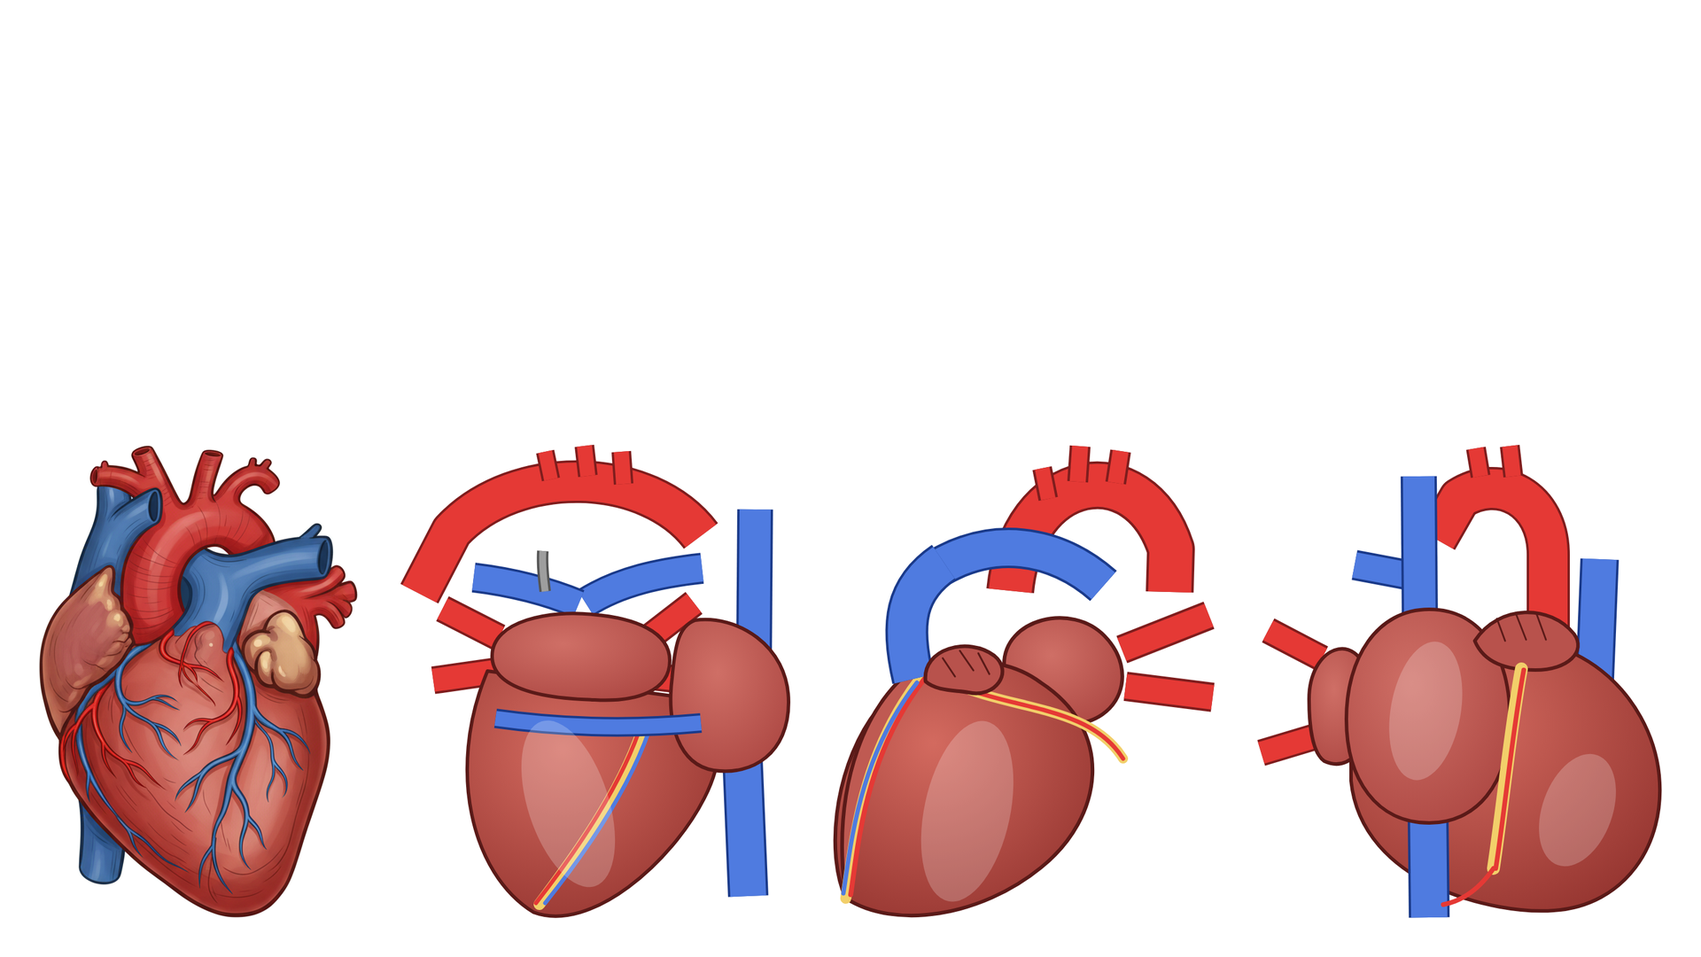
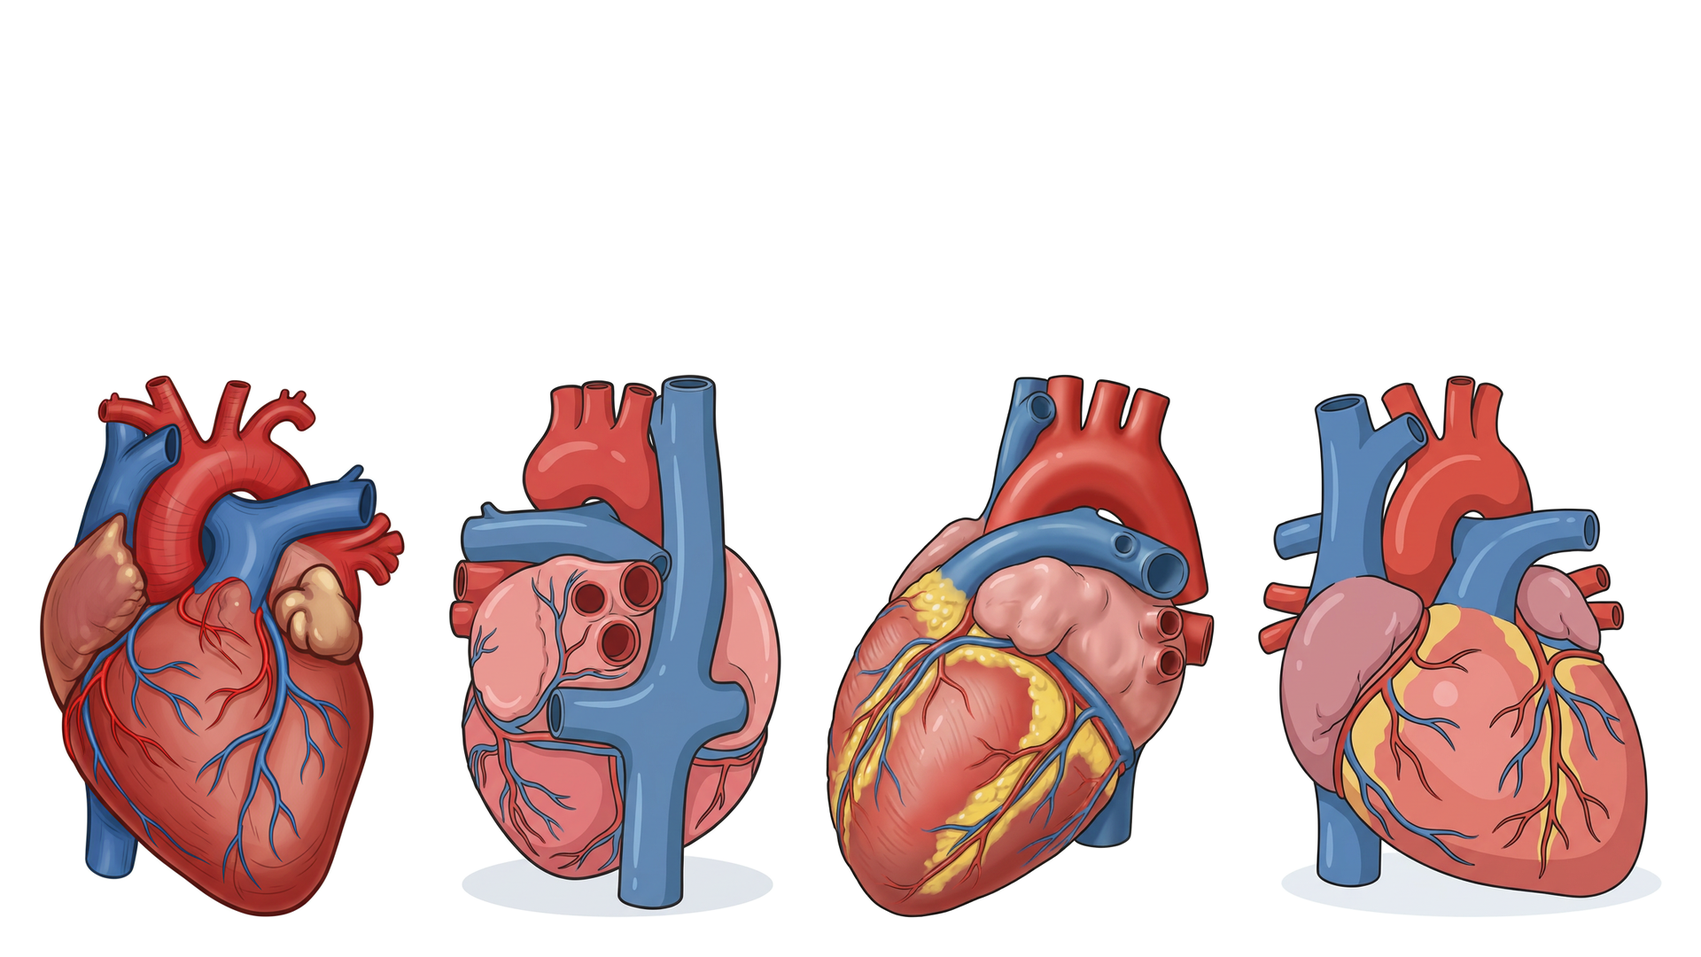
Render the last stuck views with Gemini from a vector/photo composition guide
New tool image-prompts/_src/gemini-ref.mjs: a composition guide (our vector
drawing, or an approved picture of the target view) fixes the camera angle and
part counts, another picture supplies the look. Candidates only; each one is
reviewed by hand (legs/limbs/vessels counted) before it replaces a slot.

- kecoak p03 (rear), lebah p03 (rear), nyamuk-aedes p03 (underside),
  jantung p04 (left side): realistic renders replace the flat vector fallbacks.
- jantung p08-p10 (illustration): redrawn from the approved realistic views of
  the same heart, in the illustration style of another organ.
- ginjal-penampang p01: realistic teaching-model section from the approved
  illustration; replaces the crude vector.
- Old pictures kept as *.lamaN.png with their verdicts.
- Status: 2092/2092 slots filled, 2092 ok, 0 revisi, 0 salah.

Organ pictures still need science-teacher sign-off.

diff --git a/osn-app/image-results/_galeri.html b/osn-app/image-results/_galeri.html
@@ -883,7 +883,7 @@ figcaption span{color:#fff;border-radius:99px;padding:1px 8px;font-size:12px}sma
 <figcaption><b>p02-ilustrasi-depan</b> <span style="background:#16a34a">lolos</span><small>Lolos: email, dentin, rongga pulpa dengan pembuluh darah dan saraf, gusi, sementum, tulang rahang.</small></figcaption></figure><figure><a href="ipa/02-tubuh-manusia/gigi-penampang/p03-penampang-belah.png" target="_blank"><img loading="lazy" src="ipa/02-tubuh-manusia/gigi-penampang/p03-penampang-belah.png" alt="gigi-penampang p03-penampang-belah"></a>
 <figcaption><b>p03-penampang-belah</b> <span style="background:#16a34a">lolos</span><small>Lolos: email, dentin, rongga pulpa dengan pembuluh darah dan saraf, gusi, sementum, tulang rahang.</small></figcaption></figure><figure><a href="ipa/02-tubuh-manusia/gigi-penampang/p04-penampang-transparan.png" target="_blank"><img loading="lazy" src="ipa/02-tubuh-manusia/gigi-penampang/p04-penampang-transparan.png" alt="gigi-penampang p04-penampang-transparan"></a>
 <figcaption><b>p04-penampang-transparan</b> <span style="background:#16a34a">lolos</span><small>Lolos: email, dentin, rongga pulpa dengan pembuluh darah dan saraf, gusi, sementum, tulang rahang.</small></figcaption></figure></div></section><section><h2>ginjal-penampang <em>ipa/02-tubuh-manusia/ginjal-penampang</em> <span class="cnt">4/4 terisi</span></h2><div class="grid"><figure><a href="ipa/02-tubuh-manusia/ginjal-penampang/p01-realistis-depan.png" target="_blank"><img loading="lazy" src="ipa/02-tubuh-manusia/ginjal-penampang/p01-realistis-depan.png" alt="ginjal-penampang p01-realistis-depan"></a>
-<figcaption><b>p01-realistis-depan</b> <span style="background:#16a34a">lolos</span><small>Gambar VEKTOR (SVG→PNG via image-prompts/_src/vektor-ipa.mjs), bukan Gemini: geometri dihitung kode (versi Gemini gagal berulang: teks salah eja / objek salah). Penampang membujur ginjal: kapsul ginjal (garis tipis mengkilap), korteks (merah-cokelat, pita luar) dan kolumna ginjal di antara piramida; 8 piramida medula (merah tua bergaris) dengan garis putus-putus batas korteks–medula; kaliks minor (cangkir kuning) bergabung ke kaliks mayor lalu pelvis ginjal (kuning), ureter keluar ke bawah lewat hilum; arteri ginjal (merah) dan vena ginjal (biru) masuk di hilum. Tidak ada struktur tambahan (kelenjar adrenal/lemak) seperti pada versi Gemini. Tanpa teks. Diperiksa visual. Gambar organ perlu ditinjau guru IPA sebelum rilis.</small></figcaption></figure><figure><a href="ipa/02-tubuh-manusia/ginjal-penampang/p02-ilustrasi-depan.png" target="_blank"><img loading="lazy" src="ipa/02-tubuh-manusia/ginjal-penampang/p02-ilustrasi-depan.png" alt="ginjal-penampang p02-ilustrasi-depan"></a>
+<figcaption><b>p01-realistis-depan</b> <span style="background:#16a34a">lolos</span><small>Model anatomi realistis ginjal dibelah memanjang (dirender Gemini lewat gemini-ref.mjs: struktur dan tata letak dari ilustrasi p02 yang sudah lolos, tampilan model dari foto model jantung p02 jantung; menggantikan gambar vektor datar yang jelek). Terlihat kapsul tipis, korteks merah-cokelat, piramida medula bergaris, kolumna ginjal, kaliks dan pelvis kuning pucat, ureter turun ke bawah, arteri ginjal merah dan vena ginjal biru masuk di hilum (tepi cekung), kelenjar adrenal di atas. Latar putih polos, tanpa teks. Perlu paraf guru IPA (organ).</small></figcaption></figure><figure><a href="ipa/02-tubuh-manusia/ginjal-penampang/p02-ilustrasi-depan.png" target="_blank"><img loading="lazy" src="ipa/02-tubuh-manusia/ginjal-penampang/p02-ilustrasi-depan.png" alt="ginjal-penampang p02-ilustrasi-depan"></a>
 <figcaption><b>p02-ilustrasi-depan</b> <span style="background:#16a34a">lolos</span><small>Lolos (perlu paraf guru IPA): korteks, piramid medula, pelvis, ureter, arteri merah, vena biru, kelenjar adrenal.</small></figcaption></figure><figure><a href="ipa/02-tubuh-manusia/ginjal-penampang/p03-penampang-belah.png" target="_blank"><img loading="lazy" src="ipa/02-tubuh-manusia/ginjal-penampang/p03-penampang-belah.png" alt="ginjal-penampang p03-penampang-belah"></a>
 <figcaption><b>p03-penampang-belah</b> <span style="background:#16a34a">lolos</span><small>Lolos (perlu paraf guru IPA): korteks, piramid medula, pelvis, ureter, arteri merah, vena biru, kelenjar adrenal.</small></figcaption></figure><figure><a href="ipa/02-tubuh-manusia/ginjal-penampang/p04-penampang-transparan.png" target="_blank"><img loading="lazy" src="ipa/02-tubuh-manusia/ginjal-penampang/p04-penampang-transparan.png" alt="ginjal-penampang p04-penampang-transparan"></a>
 <figcaption><b>p04-penampang-transparan</b> <span style="background:#16a34a">lolos</span><small>Lolos (perlu paraf guru IPA): korteks, piramid medula, pelvis, ureter, arteri merah, vena biru, kelenjar adrenal.</small></figcaption></figure></div></section><section><h2>glukometer <em>ipa/02-tubuh-manusia/glukometer</em> <span class="cnt">2/2 terisi</span></h2><div class="grid"><figure><a href="ipa/02-tubuh-manusia/glukometer/p01-realistis-depan.png" target="_blank"><img loading="lazy" src="ipa/02-tubuh-manusia/glukometer/p01-realistis-depan.png" alt="glukometer p01-realistis-depan"></a>
@@ -922,9 +922,9 @@ figcaption span{color:#fff;border-radius:99px;padding:1px 8px;font-size:12px}sma
 <figcaption><b>p05-realistis-kanan</b> <span style="background:#16a34a">lolos</span><small>Lolos (perlu paraf guru IPA): vena kava di sisi kiri gambar, apeks ke kanan bawah gambar, aorta melengkung, arteri koroner; tampak belakang dengan vena pulmonalis.</small></figcaption></figure><figure><a href="ipa/02-tubuh-manusia/jantung/p06-ilustrasi-turnaround.png" target="_blank"><img loading="lazy" src="ipa/02-tubuh-manusia/jantung/p06-ilustrasi-turnaround.png" alt="jantung p06-ilustrasi-turnaround"></a>
 <figcaption><b>p06-ilustrasi-turnaround</b> <span style="background:#16a34a">lolos</span><small>Disusun otomatis dari p07, p08, p09, p10 (depan, belakang, kiri, kanan) yang sudah lolos review.</small></figcaption></figure><figure><a href="ipa/02-tubuh-manusia/jantung/p07-ilustrasi-depan.png" target="_blank"><img loading="lazy" src="ipa/02-tubuh-manusia/jantung/p07-ilustrasi-depan.png" alt="jantung p07-ilustrasi-depan"></a>
 <figcaption><b>p07-ilustrasi-depan</b> <span style="background:#16a34a">lolos</span><small>Gaya ilustrasi buku pelajaran, tampak depan, utuh, tanpa teks. Anatomi sesuai tingkat SD: lengkung aorta 3 cabang, vena cava superior &amp; inferior (biru) di sisi kanan tubuh (kiri gambar), apeks condong ke kiri tubuh (kanan gambar), arteri pulmonalis biru, pembuluh koroner di permukaan. Model: gemini-2.5-flash-image via Vertex AI. Tetap perlu cek guru IPA sebelum rilis.</small></figcaption></figure><figure><a href="ipa/02-tubuh-manusia/jantung/p08-ilustrasi-belakang.png" target="_blank"><img loading="lazy" src="ipa/02-tubuh-manusia/jantung/p08-ilustrasi-belakang.png" alt="jantung p08-ilustrasi-belakang"></a>
-<figcaption><b>p08-ilustrasi-belakang</b> <span style="background:#16a34a">lolos</span><small>Gambar VEKTOR skematik (SVG→PNG via image-prompts/_src/vektor-ipa.mjs), bukan Gemini (5 percobaan Gemini, termasuk model pro, selalu kembali ke tampak depan). Konvensi sama dengan p07 depan: arteri merah, vena kava &amp; arteri pulmonalis biru, vena pulmonalis merah, lemak/alur kuning, tanpa teks. Tampak BELAKANG (posterior): apeks ke bawah-KIRI gambar (= kiri tubuh); atrium kiri di atas dengan 4 vena pulmonalis (2 kiri, 2 kanan); atrium kanan di sisi kanan gambar dengan vena kava superior (atas) dan inferior (bawah); sinus koronarius di alur atrioventrikular masuk ke atrium kanan; alur interventrikular posterior dengan arteri &amp; vena; lengkung aorta dengan 3 cabang, arteri pulmonalis kanan/kiri, ligamentum arteriosum di atasnya. Skema buku pelajaran SD, bukan model anatomi detail; WAJIB paraf guru IPA sebelum rilis (organ).</small></figcaption></figure><figure><a href="ipa/02-tubuh-manusia/jantung/p09-ilustrasi-kiri.png" target="_blank"><img loading="lazy" src="ipa/02-tubuh-manusia/jantung/p09-ilustrasi-kiri.png" alt="jantung p09-ilustrasi-kiri"></a>
-<figcaption><b>p09-ilustrasi-kiri</b> <span style="background:#16a34a">lolos</span><small>Gambar VEKTOR skematik (SVG→PNG via image-prompts/_src/vektor-ipa.mjs), bukan Gemini (5 percobaan Gemini, termasuk model pro, selalu kembali ke tampak depan). Konvensi sama dengan p07 depan: arteri merah, vena kava &amp; arteri pulmonalis biru, vena pulmonalis merah, lemak/alur kuning, tanpa teks. Tampak SAMPING KIRI (depan jantung ke kiri gambar): ventrikel kiri dominan, apeks ke kiri-bawah, sedikit ventrikel kanan di tepi depan, arteri koroner kiri descendens anterior + vena jantung besar di alur depan, arteri sirkumfleks di alur AV, aurikel kiri di bawah batang pulmonalis, atrium kiri di belakang dengan 2 vena pulmonalis kiri, lengkung aorta 3 cabang. Skema buku pelajaran SD, bukan model anatomi detail; WAJIB paraf guru IPA sebelum rilis (organ).</small></figcaption></figure><figure><a href="ipa/02-tubuh-manusia/jantung/p10-ilustrasi-kanan.png" target="_blank"><img loading="lazy" src="ipa/02-tubuh-manusia/jantung/p10-ilustrasi-kanan.png" alt="jantung p10-ilustrasi-kanan"></a>
-<figcaption><b>p10-ilustrasi-kanan</b> <span style="background:#16a34a">lolos</span><small>Gambar VEKTOR skematik (SVG→PNG via image-prompts/_src/vektor-ipa.mjs), bukan Gemini (5 percobaan Gemini, termasuk model pro, selalu kembali ke tampak depan). Konvensi sama dengan p07 depan: arteri merah, vena kava &amp; arteri pulmonalis biru, vena pulmonalis merah, lemak/alur kuning, tanpa teks. Tampak SAMPING KANAN (depan jantung ke kanan gambar): atrium kanan besar dengan aurikel kanan di atas pangkal aorta, vena kava superior masuk dari atas dan inferior dari bawah, ventrikel kanan di depan-bawah, batang pulmonalis di depan, arteri koroner kanan di alur AV kanan, aorta asenden melengkung ke belakang, 2 vena pulmonalis kanan di belakang atrium. Skema buku pelajaran SD, bukan model anatomi detail; WAJIB paraf guru IPA sebelum rilis (organ).</small></figcaption></figure><figure><a href="ipa/02-tubuh-manusia/jantung/p11-penampang-belah.png" target="_blank"><img loading="lazy" src="ipa/02-tubuh-manusia/jantung/p11-penampang-belah.png" alt="jantung p11-penampang-belah"></a>
+<figcaption><b>p08-ilustrasi-belakang</b> <span style="background:#16a34a">lolos</span><small>Ilustrasi buku teks (dirender Gemini lewat gemini-ref.mjs: sudut dan anatomi dari foto model jantung realistis yang sudah lolos review, gaya garis tegas + warna datar dari ilustrasi paru-paru; menggantikan gambar vektor datar yang jelek). Merah = kaya oksigen, biru = miskin oksigen; semua pembuluh menyambung ke jantung, tanpa teks, tanpa penyangga. Tampak belakang: vena kava atas dan bawah tegak di tengah-kanan gambar, atrium kiri dengan 2 muara vena pulmonalis, lengkung aorta bercabang tiga di kiri atas, arteri pulmonalis biru melintang. Perlu paraf guru IPA (organ).</small></figcaption></figure><figure><a href="ipa/02-tubuh-manusia/jantung/p09-ilustrasi-kiri.png" target="_blank"><img loading="lazy" src="ipa/02-tubuh-manusia/jantung/p09-ilustrasi-kiri.png" alt="jantung p09-ilustrasi-kiri"></a>
+<figcaption><b>p09-ilustrasi-kiri</b> <span style="background:#16a34a">lolos</span><small>Ilustrasi buku teks (dirender Gemini lewat gemini-ref.mjs: sudut dan anatomi dari foto model jantung realistis yang sudah lolos review, gaya garis tegas + warna datar dari ilustrasi paru-paru; menggantikan gambar vektor datar yang jelek). Merah = kaya oksigen, biru = miskin oksigen; semua pembuluh menyambung ke jantung, tanpa teks, tanpa penyangga. Tampak samping kiri: ventrikel kiri dominan dengan apeks ke bawah-kiri, lengkung aorta bercabang tiga di atas, batang pulmonalis biru melintang di depan, aurikel kiri, dua vena pulmonalis kiri di tepi kanan, LAD dan vena jantung besar di permukaan. Perlu paraf guru IPA (organ).</small></figcaption></figure><figure><a href="ipa/02-tubuh-manusia/jantung/p10-ilustrasi-kanan.png" target="_blank"><img loading="lazy" src="ipa/02-tubuh-manusia/jantung/p10-ilustrasi-kanan.png" alt="jantung p10-ilustrasi-kanan"></a>
+<figcaption><b>p10-ilustrasi-kanan</b> <span style="background:#16a34a">lolos</span><small>Ilustrasi buku teks (dirender Gemini lewat gemini-ref.mjs: sudut dan anatomi dari foto model jantung realistis yang sudah lolos review, gaya garis tegas + warna datar dari ilustrasi paru-paru; menggantikan gambar vektor datar yang jelek). Merah = kaya oksigen, biru = miskin oksigen; semua pembuluh menyambung ke jantung, tanpa teks, tanpa penyangga. Tampak samping kanan: atrium kanan dengan aurikelnya di kiri gambar, vena kava atas (atas) dan bawah (bawah), ventrikel kanan di depan, lengkung aorta di belakang dengan 3 cabang, batang pulmonalis biru. Perlu paraf guru IPA (organ).</small></figcaption></figure><figure><a href="ipa/02-tubuh-manusia/jantung/p11-penampang-belah.png" target="_blank"><img loading="lazy" src="ipa/02-tubuh-manusia/jantung/p11-penampang-belah.png" alt="jantung p11-penampang-belah"></a>
 <figcaption><b>p11-penampang-belah</b> <span style="background:#16a34a">lolos</span><small>Lolos (perlu paraf guru IPA): 4 ruang, sisi kanan jantung (biru) di kiri gambar, dinding bilik kiri tebal, katup, callout kosong.</small></figcaption></figure><figure><a href="ipa/02-tubuh-manusia/jantung/p12-penampang-transparan.png" target="_blank"><img loading="lazy" src="ipa/02-tubuh-manusia/jantung/p12-penampang-transparan.png" alt="jantung p12-penampang-transparan"></a>
 <figcaption><b>p12-penampang-transparan</b> <span style="background:#16a34a">lolos</span><small>Lolos (perlu paraf guru IPA): 4 ruang, sisi kanan jantung (biru) di kiri gambar, dinding bilik kiri tebal, katup, callout kosong.</small></figcaption></figure></div></section><section><h2>jantung-penampang <em>ipa/02-tubuh-manusia/jantung-penampang</em> <span class="cnt">4/4 terisi</span></h2><div class="grid"><figure><a href="ipa/02-tubuh-manusia/jantung-penampang/p01-realistis-depan.png" target="_blank"><img loading="lazy" src="ipa/02-tubuh-manusia/jantung-penampang/p01-realistis-depan.png" alt="jantung-penampang p01-realistis-depan"></a>
 <figcaption><b>p01-realistis-depan</b> <span style="background:#16a34a">lolos</span><small>Lolos (perlu paraf guru IPA): 4 ruang; serambi &amp; bilik kanan (biru, miskin O2) di sisi kiri gambar, kiri (merah) di sisi kanan gambar; dinding bilik kiri lebih tebal; katup.</small></figcaption></figure><figure><a href="ipa/02-tubuh-manusia/jantung-penampang/p02-ilustrasi-depan.png" target="_blank"><img loading="lazy" src="ipa/02-tubuh-manusia/jantung-penampang/p02-ilustrasi-depan.png" alt="jantung-penampang p02-ilustrasi-depan"></a>

diff --git a/CLAUDE.md b/CLAUDE.md
@@ -82,7 +82,8 @@ Every object must be verified against web sources before the user generates it.
 - **Billing:** Google Cloud free-trial credits do **not** apply to the Gemini API / AI Studio (excluded since March 2026). Use `--vertex` instead. It calls Vertex AI in project `project-a087bc92-937b-4ba3-859` (account azukanurunara94@gmail.com), with auth from the separate gcloud configuration `osn-sd` via `gcloud auth print-access-token`, and no API key. Never touch the `default` gcloud config, which belongs to an unrelated client project. Whether Vertex usage is actually deducted from the free-trial credits must be confirmed in Billing → Reports before any large run.
 - Turnaround sheets are **not generated** (every model kept getting the 4 panels wrong: duplicate fronts, both profiles facing the same way, 3/4 angles). The generator skips them unless `--turnaround`. Run `python image-prompts/_src/montase-turnaround.py` (from `osn-app/`) after a review round: it builds each turnaround from the four single views (depan, belakang, kiri, kanan) once all four are `ok`, and records an `ok` verdict that says it was assembled.
 - Redoing rejected slots: move the image to `*.lama.png` and its verdict to `"<key>.lama"`, then run with `--fix --slots …`. `--fix` appends the quoted English correction prompts from the `.lama` verdict to the prompt. Slots in the same session that are not being redone are fed back as context, not regenerated, so approved images are never overwritten. Vertex model names have no `-preview` suffix (`gemini-3.1-flash-image`, `gemini-3-pro-image`).
-- MTK precision props (dadu, spinner, jam-analog, tangram, sempoa, speedometer, kubus, balok, limas-segitiga, limas-segiempat, prisma-segitiga, kerucut p02–p05, bola, bangun-ruang-set, bangun-datar-set, alat-geometri-set, geoboard, batang-korek-pola, cokelat-batang, kue-bolu-pecahan p01, jaring-jaring-kubus, kubus-satuan, kartu-bernomor, susunan-pola-bola, timbangan-aljabar, pizza-pecahan p01) and IPA props where wiring, counts or geometry kept failing (rangkaian-seri, rangkaian-paralel, periskop p11–p12, baterai-set p03–p04, katrol-bergerak, katrol-tetap all eight views, kompas p01; and, drawn by `image-prompts/_src/vektor-ipa.mjs`, ambulans-doppler, distilasi, kromatografi p02, model-atom p04, slinki p02, termos-penampang p03–p04, lensa-cembung-cekung-set, larutan-koloid-suspensi p03–p04, molekul-set p02, termometer-set p03, mikroskop p03/p11/p12, kamera-lubang-jarum p02, periskop p07–p10, bidang-miring-papan p10, dinamo-sepeda p09–p10, transformator p10–p11, kincir-angin p10, kipas-angin p05, bel-listrik p02, gelas-ukur p02–p05, stopwatch all views, neraca-ohauss all views, alat-gelas-lab-set p01, speaker-mikrofon-set p03, teropong-bintang p11–p12, tata-surya-deret, rasi-orion p01, fase-bulan-deret, bumi-lapisan p03–p04, jupiter p11–p12, profil-tanah, pelangi, gunung-meletus p03–p04, pasang-surut-set p02, telur-ayam p03–p04, penampang-daun p03–p04, akar-tunggang-serabut-set p04, sel-tumbuhan p09–p11, sel-hewan p02/p04/p05/p09/p10/p12, alveolus p03–p04, lambung p11, mata p11, mata-penampang p01–p03, ginjal-penampang p01, lebah p03/p08, jantung p04/p08/p09/p10, hati-empedu p09/p10, lidah p10, sistem-pernapasan p12, kentang-bertunas p12, vaksin-suntik p01, tingkatan-organisasi-makhluk-hidup-set p02, daur-katak-set p03–p04, tulang-rusuk p07–p10 (p02–p05 are Gemini photos), sistem-urinaria p07/p08/p11/p12, tulang-belakang p10–p12, tulang-paha-penampang p03–p04, reproduksi-pria p02–p04, jupiter/merkurius/venus p08–p10, bulan p09–p10, kepiting p08, nyamuk-aedes p03/p08, usus-halus-besar p08, kecoak p03) are drawn as exact vectors by `node image-prompts/_src/vektor-mtk.mjs --install [--only=ids] [--empty]` (`--empty` fills only slots that have no picture yet) or, for the `vektor-ipa.mjs` ones, `node image-prompts/_src/vektor-ipa.mjs --install [--only=ids]`, not Gemini, which kept getting counts and angles wrong. Never regenerate those slots with gemini-gen; change the drawing code instead.
+- MTK precision props (dadu, spinner, jam-analog, tangram, sempoa, speedometer, kubus, balok, limas-segitiga, limas-segiempat, prisma-segitiga, kerucut p02–p05, bola, bangun-ruang-set, bangun-datar-set, alat-geometri-set, geoboard, batang-korek-pola, cokelat-batang, kue-bolu-pecahan p01, jaring-jaring-kubus, kubus-satuan, kartu-bernomor, susunan-pola-bola, timbangan-aljabar, pizza-pecahan p01) and IPA props where wiring, counts or geometry kept failing (rangkaian-seri, rangkaian-paralel, periskop p11–p12, baterai-set p03–p04, katrol-bergerak, katrol-tetap all eight views, kompas p01; and, drawn by `image-prompts/_src/vektor-ipa.mjs`, ambulans-doppler, distilasi, kromatografi p02, model-atom p04, slinki p02, termos-penampang p03–p04, lensa-cembung-cekung-set, larutan-koloid-suspensi p03–p04, molekul-set p02, termometer-set p03, mikroskop p03/p11/p12, kamera-lubang-jarum p02, periskop p07–p10, bidang-miring-papan p10, dinamo-sepeda p09–p10, transformator p10–p11, kincir-angin p10, kipas-angin p05, bel-listrik p02, gelas-ukur p02–p05, stopwatch all views, neraca-ohauss all views, alat-gelas-lab-set p01, speaker-mikrofon-set p03, teropong-bintang p11–p12, tata-surya-deret, rasi-orion p01, fase-bulan-deret, bumi-lapisan p03–p04, jupiter p11–p12, profil-tanah, pelangi, gunung-meletus p03–p04, pasang-surut-set p02, telur-ayam p03–p04, penampang-daun p03–p04, akar-tunggang-serabut-set p04, sel-tumbuhan p09–p11, sel-hewan p02/p04/p05/p09/p10/p12, alveolus p03–p04, lambung p11, mata p11, mata-penampang p01–p03, lebah p08, hati-empedu p09/p10, lidah p10, sistem-pernapasan p12, kentang-bertunas p12, vaksin-suntik p01, tingkatan-organisasi-makhluk-hidup-set p02, daur-katak-set p03–p04, tulang-rusuk p07–p10 (p02–p05 are Gemini photos), sistem-urinaria p07/p08/p11/p12, tulang-belakang p10–p12, tulang-paha-penampang p03–p04, reproduksi-pria p02–p04, jupiter/merkurius/venus p08–p10, bulan p09–p10, kepiting p08, nyamuk-aedes p08, usus-halus-besar p08) are drawn as exact vectors by `node image-prompts/_src/vektor-mtk.mjs --install [--only=ids] [--empty]` (`--empty` fills only slots that have no picture yet) or, for the `vektor-ipa.mjs` ones, `node image-prompts/_src/vektor-ipa.mjs --install [--only=ids]`, not Gemini, which kept getting counts and angles wrong. Never regenerate those slots with gemini-gen; change the drawing code instead.
+- Views Gemini keeps getting wrong (rear / underside / left lateral) and organic organs whose flat vector looks crude: `node image-prompts/_src/gemini-ref.mjs --vertex --guide <image> --species <approved picture> --subject "<parts that must be visible>" --out <dir> [--n 3]` (from `osn-app/`) renders candidates with Gemini from a composition guide (a vector drawing, or an approved picture of the target view) plus an approved picture for style. Use a style picture of a **different** object when restyling a view, otherwise the model copies the style picture's composition. It writes candidates only; review each one (count legs/limbs/vessels by hand, reject floating or duplicated parts), then install by hand: archive the old slot as `<slot>.lamaN.png` and its verdict as `"<key>.lamaN"`. Done this way: kecoak p03, lebah p03, nyamuk-aedes p03, jantung p04/p08/p09/p10, ginjal-penampang p01. Reference photos of the target view (any free license) are fine as `--guide` input, never as the published picture.
 - Planet turnarounds (bumi, jupiter, mars, merkurius, venus) are rendered by `python image-prompts/_src/planet-peta.py` (from `osn-app/`) from public-domain NASA maps (orthographic projection, so 90°/180° views are true rotations; Gemini cannot rotate a sphere). It fills only empty slots; the maps are cached in the gitignored `image-prompts/_src/_peta/`. Venus is a procedural pale cloud deck (visible light is featureless), say so in the verdict.
 - Biology see-through/cut-away pictures Gemini kept failing (blood cells, blood vessels, intestinal villi, corn/bean seeds, hibiscus, corn and peanut plants) are drawn by `node image-prompts/_src/vektor-bio.mjs --install --empty`. Same rule as above: change the drawing code, never regenerate those slots with gemini-gen.
 - Order of preference for a missing slot (user decision, 2026-10-11): 1) exact SVG→PNG drawing or a render from public-domain data, 2) a CC0 / public-domain stock picture (NASA/JPL etc.; record the file, license and credit in the verdict), 3) Gemini last. Never write a verdict for a slot before checking the file is the one you made: another session may have generated the same slot meanwhile.
